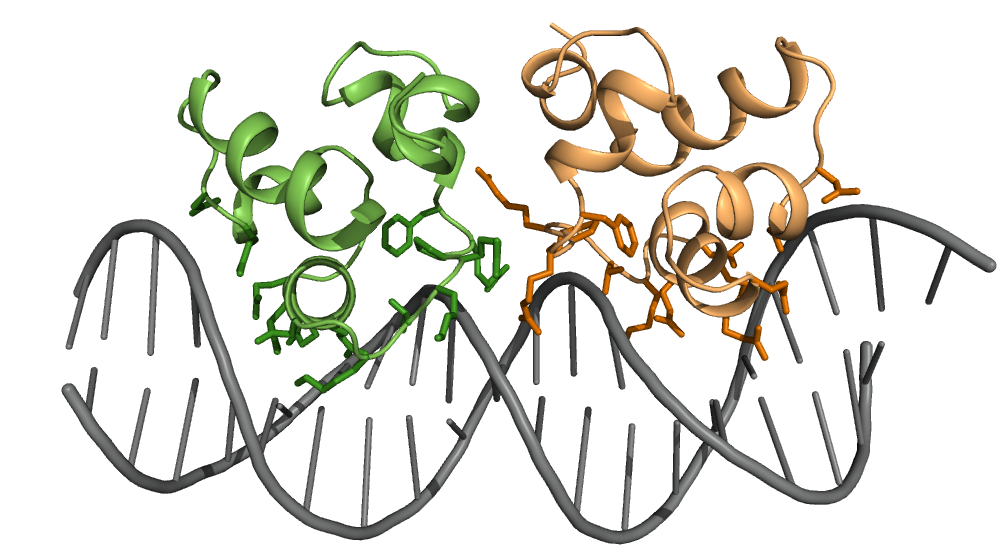
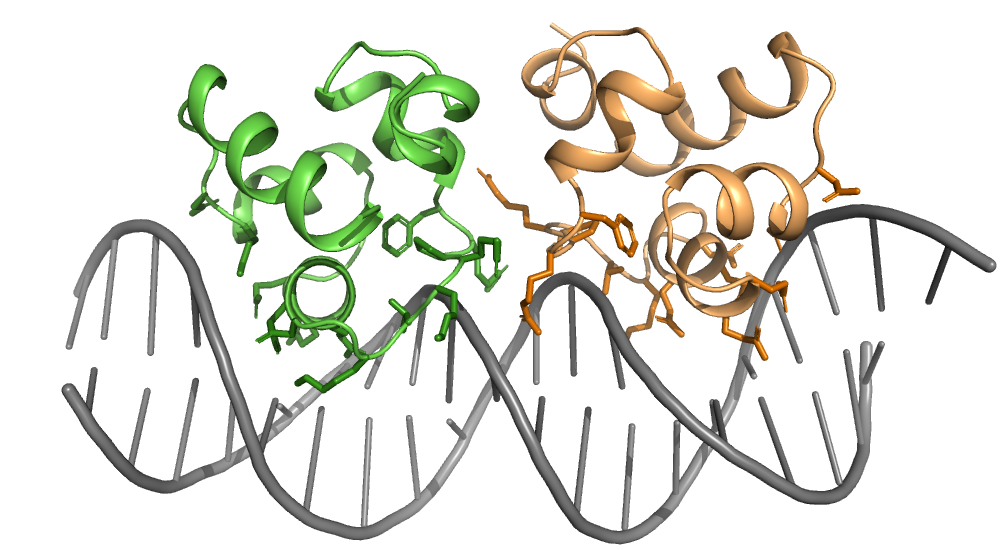
Added custom scraper for PyMOL images

diff --git a/doc/scraper.py b/doc/scraper.py
@@ -1,24 +1,26 @@
 from glob import glob
 import shutil
+import copy
+import sys
 import os
-from os.path import splitext
+from os.path import splitext, join, dirname, isfile
 from sphinx_gallery.scrapers import figure_rst
+from sphinx.errors import ExtensionError
 
 
 def static_image_scraper(block, block_vars, gallery_conf):
-    script_path = os.path.dirname(block_vars["src_file"])
+    script_dir = dirname(block_vars["src_file"])
     image_sources = []
     # Search for comment line containing 'biotite_static_image'
     _, code, _ = block
-    lines = code.split("\n")
-    for line in lines:
+    for line in code.splitlines():
         line = line.strip()
         if line.startswith("#"):
             line = line[1:].strip()
             if line.startswith("biotite_static_image"):
                 # Get the image name after the '=' character
                 image_name = line.split("=")[1].strip()
-                image_sources.append(os.path.join(script_path, image_name))
+                image_sources.append(join(script_dir, image_name))
 
     # Copy the images into the 'gallery' directory under a canonical
     # sphinx-gallery name
@@ -35,3 +37,72 @@ def static_image_scraper(block, block_vars, gallery_conf):
     
     # Generate rST for detected image files
     return figure_rst(image_destinations, gallery_conf['src_dir'])
+
+
+def pymol_scraper(block, block_vars, gallery_conf):
+    # Search for comment line containing 'Visualization with PyMOL...'
+    _, code, _ = block
+    if any([
+        line.strip() == "# Visualization with PyMOL..."
+        for line in code.splitlines()
+    ]):
+        pymol_script_path = splitext(block_vars["src_file"])[0] + "_pymol.py"
+        pymol_image_path  = splitext(block_vars["src_file"])[0] + ".png"
+        if not isfile(pymol_script_path):
+            raise ExtensionError(
+                f"'{block_vars['src_file']}' has no corresponding "
+                f"'{pymol_script_path}' file"
+            )
+        
+        # If PyMOL image is already created, do not run PyMOL script,
+        # ad this should not be required for building the documentation
+        if not isfile(pymol_image_path):
+            # Create a shallow copy,
+            # to avoid ading new variables to example script
+            script_globals = copy.copy(block_vars["example_globals"])
+            script_globals["__image_destination__"] = pymol_image_path
+            
+            try:
+                import pymol
+            except ImportError:
+                raise ExtensionError("PyMOL is not installed")
+            try:
+                import ammolite
+            except ImportError:
+                raise ExtensionError("Ammolite is not installed")     
+            with open(pymol_script_path, "r") as script:
+                # Prevent PyMOL from writing stuff (splash screen, etc.)
+                # to STDOUT or STDERR
+                # -> Save original STDOUT/STDERR and point them
+                # temporarily to DEVNULL
+                dev_null = open(os.devnull, 'w')
+                orig_stdout = sys.stdout
+                orig_stderr = sys.stderr
+                sys.stdout = dev_null
+                sys.stderr = dev_null
+                try:
+                    exec(script.read(), script_globals)
+                except Exception as e:
+                    raise ExtensionError(
+                        f"PyMOL script raised a {type(e).__name__}: {str(e)}"
+                    )
+                finally:
+                    # Restore STDOUT/STDERR
+                    sys.stdout = orig_stdout
+                    sys.stderr = orig_stderr
+                    dev_null.close()
+            if not isfile(pymol_image_path):
+                raise ExtensionError(
+                    "PyMOL script did not create an image "
+                    "(at expected location)"
+                )
+
+        # Copy the images into the 'gallery' directory under a canonical
+        # sphinx-gallery name
+        image_path_iterator = block_vars['image_path_iterator']
+        image_destination = image_path_iterator.next()
+        shutil.copy(pymol_image_path, image_destination)
+        return figure_rst([image_destination], gallery_conf['src_dir'])
+    
+    else:
+        return figure_rst([], gallery_conf['src_dir'])

diff --git a/doc/examples/scripts/structure/contact_sites_pymol.py b/doc/examples/scripts/structure/contact_sites_pymol.py
@@ -1,0 +1,59 @@
+import numpy as np
+import biotite.structure as struc
+import ammolite
+
+
+PNG_SIZE = (1000, 550)
+
+# General configuration
+ammolite.cmd.set("cartoon_side_chain_helper", 1)
+ammolite.cmd.set("cartoon_discrete_colors", 1)
+ammolite.cmd.set("cartoon_oval_length", 0.8)
+ammolite.cmd.set("cartoon_discrete_colors", 1)
+
+# Define colors
+ammolite.cmd.set_color("biotite_brightorange", [255/255, 181/255, 105/255])
+ammolite.cmd.set_color("biotite_dimorange",    [220/255, 112/255,   0/255])
+ammolite.cmd.set_color("biotite_lightgreen",   [111/255, 222/255,  76/255])
+ammolite.cmd.set_color("biotite_darkgreen",    [ 56/255, 154/255,  26/255])
+
+# Add bonds to structure and convert to PyMOL
+structure = structure[~struc.filter_solvent(structure)]
+structure.bonds = struc.connect_via_residue_names(structure)
+pymol_obj = ammolite.PyMOLObject.from_structure(structure)
+
+# Set overall colors
+pymol_obj.color("gray", np.isin(structure.chain_id, ["A", "B"]))
+pymol_obj.color("biotite_brightorange", structure.chain_id == "L")
+pymol_obj.color("biotite_lightgreen", structure.chain_id == "R")
+
+# Set view
+ammolite.cmd.set_view((
+    -0.044524662,    0.767611504,    0.639355302,
+     0.998693943,    0.018437184,    0.047413416,
+     0.024606399,    0.640637815,   -0.767439663,
+     0.000000000,    0.000000000, -115.614288330,
+    56.031833649,   23.317802429,    3.761308193,
+    73.517341614,  157.711288452,  -20.000000000 
+))
+
+# Highlight contacts
+residue_mask = np.isin(structure.res_id, common_ids)
+pymol_obj.show(
+    "sticks",
+    np.isin(structure.chain_id, ["L", "R"]) & residue_mask
+)
+for chain, color in zip(
+    ("L", "R"),
+    ("biotite_dimorange","biotite_darkgreen")
+):
+    pymol_obj.color(
+        color,
+        (structure.chain_id == chain) & 
+        (structure.atom_name != "CA") & 
+        residue_mask
+    )
+
+# Save image
+ammolite.cmd.ray(*PNG_SIZE)
+ammolite.cmd.png(__image_destination__)

diff --git a/doc/conf.py b/doc/conf.py
@@ -123,7 +123,7 @@ sphinx_gallery_conf = {
     "within_subsection_order"   : FileNameSortKey,
     # Do not run example scripts with a trailing '_noexec'
     "filename_pattern"          : "^((?!_noexec).)*$",
-    "ignore_pattern"            : ".*ignore\.py",
+    "ignore_pattern"            : "(.*ignore\.py)|(.*pymol\.py)",
     "backreferences_dir"        : None,
     "download_section_examples" : False,
     # Never report run time
@@ -131,7 +131,11 @@ sphinx_gallery_conf = {
     "default_thumb_file"        : join(
         doc_path, "static/assets/general/biotite_icon_thumb.png"
     ),
-    "image_scrapers"            : ("matplotlib", scraper.static_image_scraper),
+    "image_scrapers"            : (
+        "matplotlib",
+        scraper.static_image_scraper,
+        scraper.pymol_scraper
+    ),
     "matplotlib_animations"     : True,
     "backreferences_dir"        : "examples/backreferences",
     "doc_module"                : ("biotite",),

diff --git a/doc/examples/scripts/structure/contact_sites.py b/doc/examples/scripts/structure/contact_sites.py
@@ -78,4 +78,3 @@ for res_id in common_ids:
     print(res_name.capitalize() + str(res_id))
 
 # Visualization with PyMOL...
-# biotite_static_image = contact_sites.png

diff --git a/doc/contribute.rst b/doc/contribute.rst
@@ -281,7 +281,7 @@ The Sphinx documentation is created using
 
 .. code-block:: console
 
-   $ pip install .
+   $ pip install -e .
    $ sphinx-build doc doc/_build/doc
 
 in the top-level directory.
